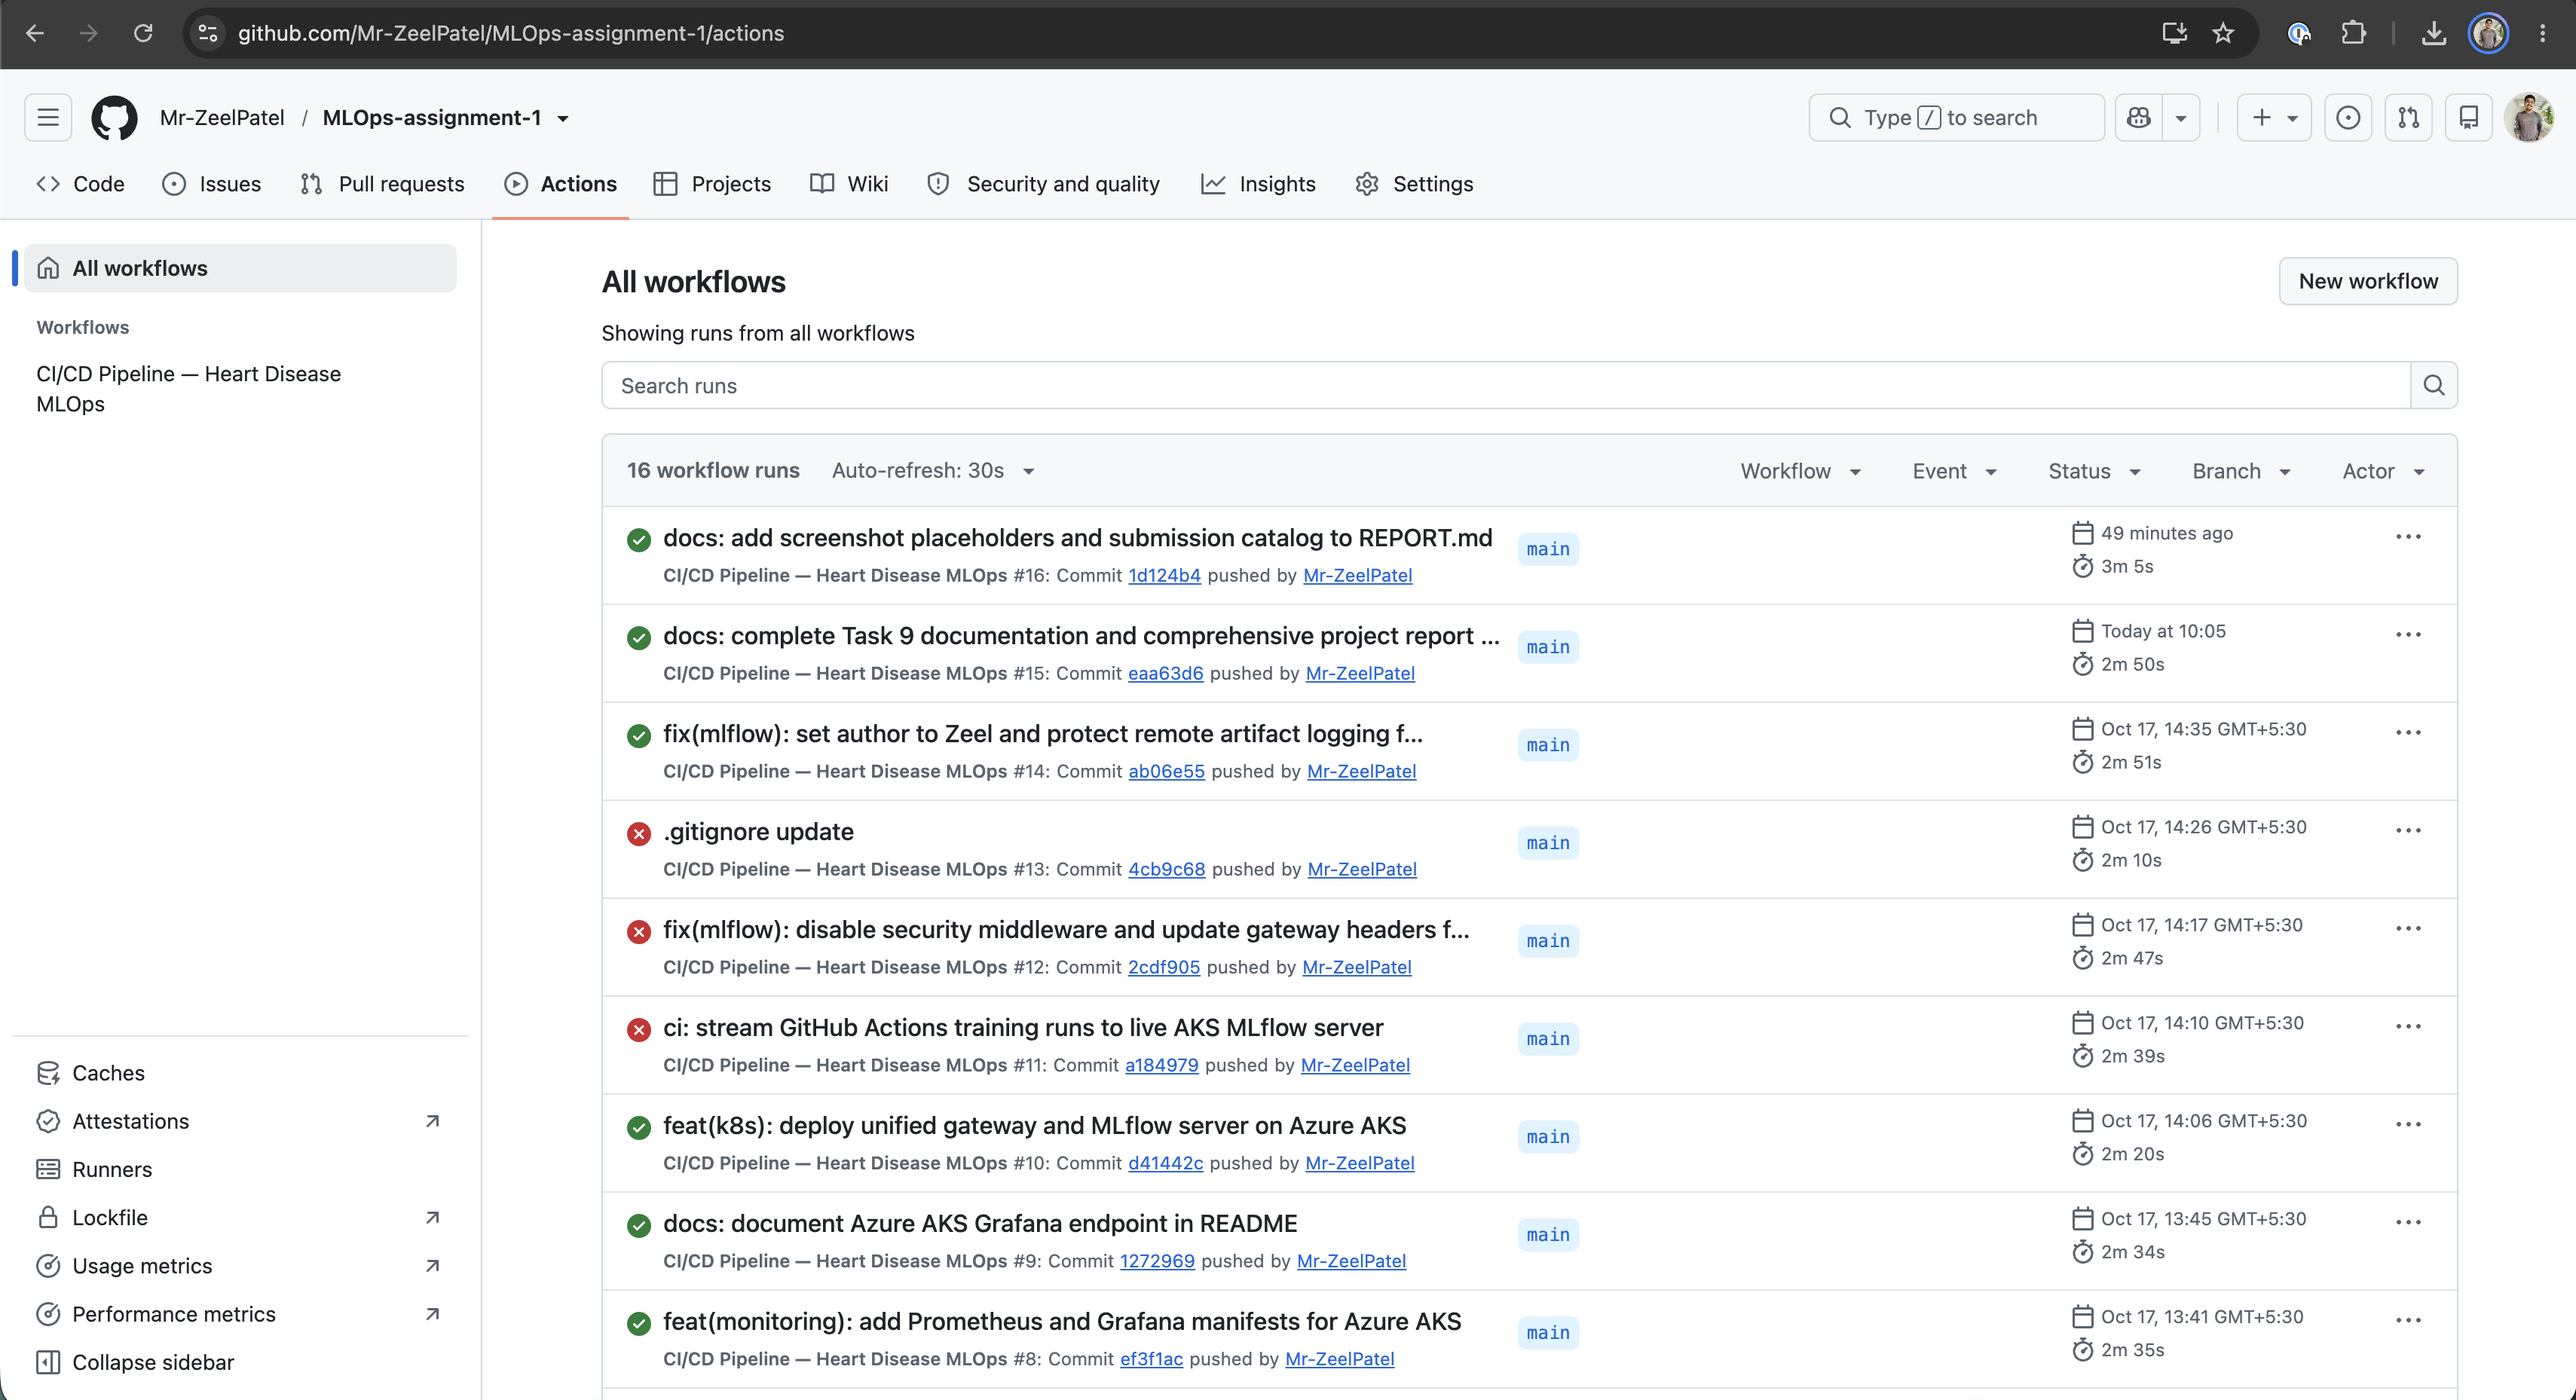
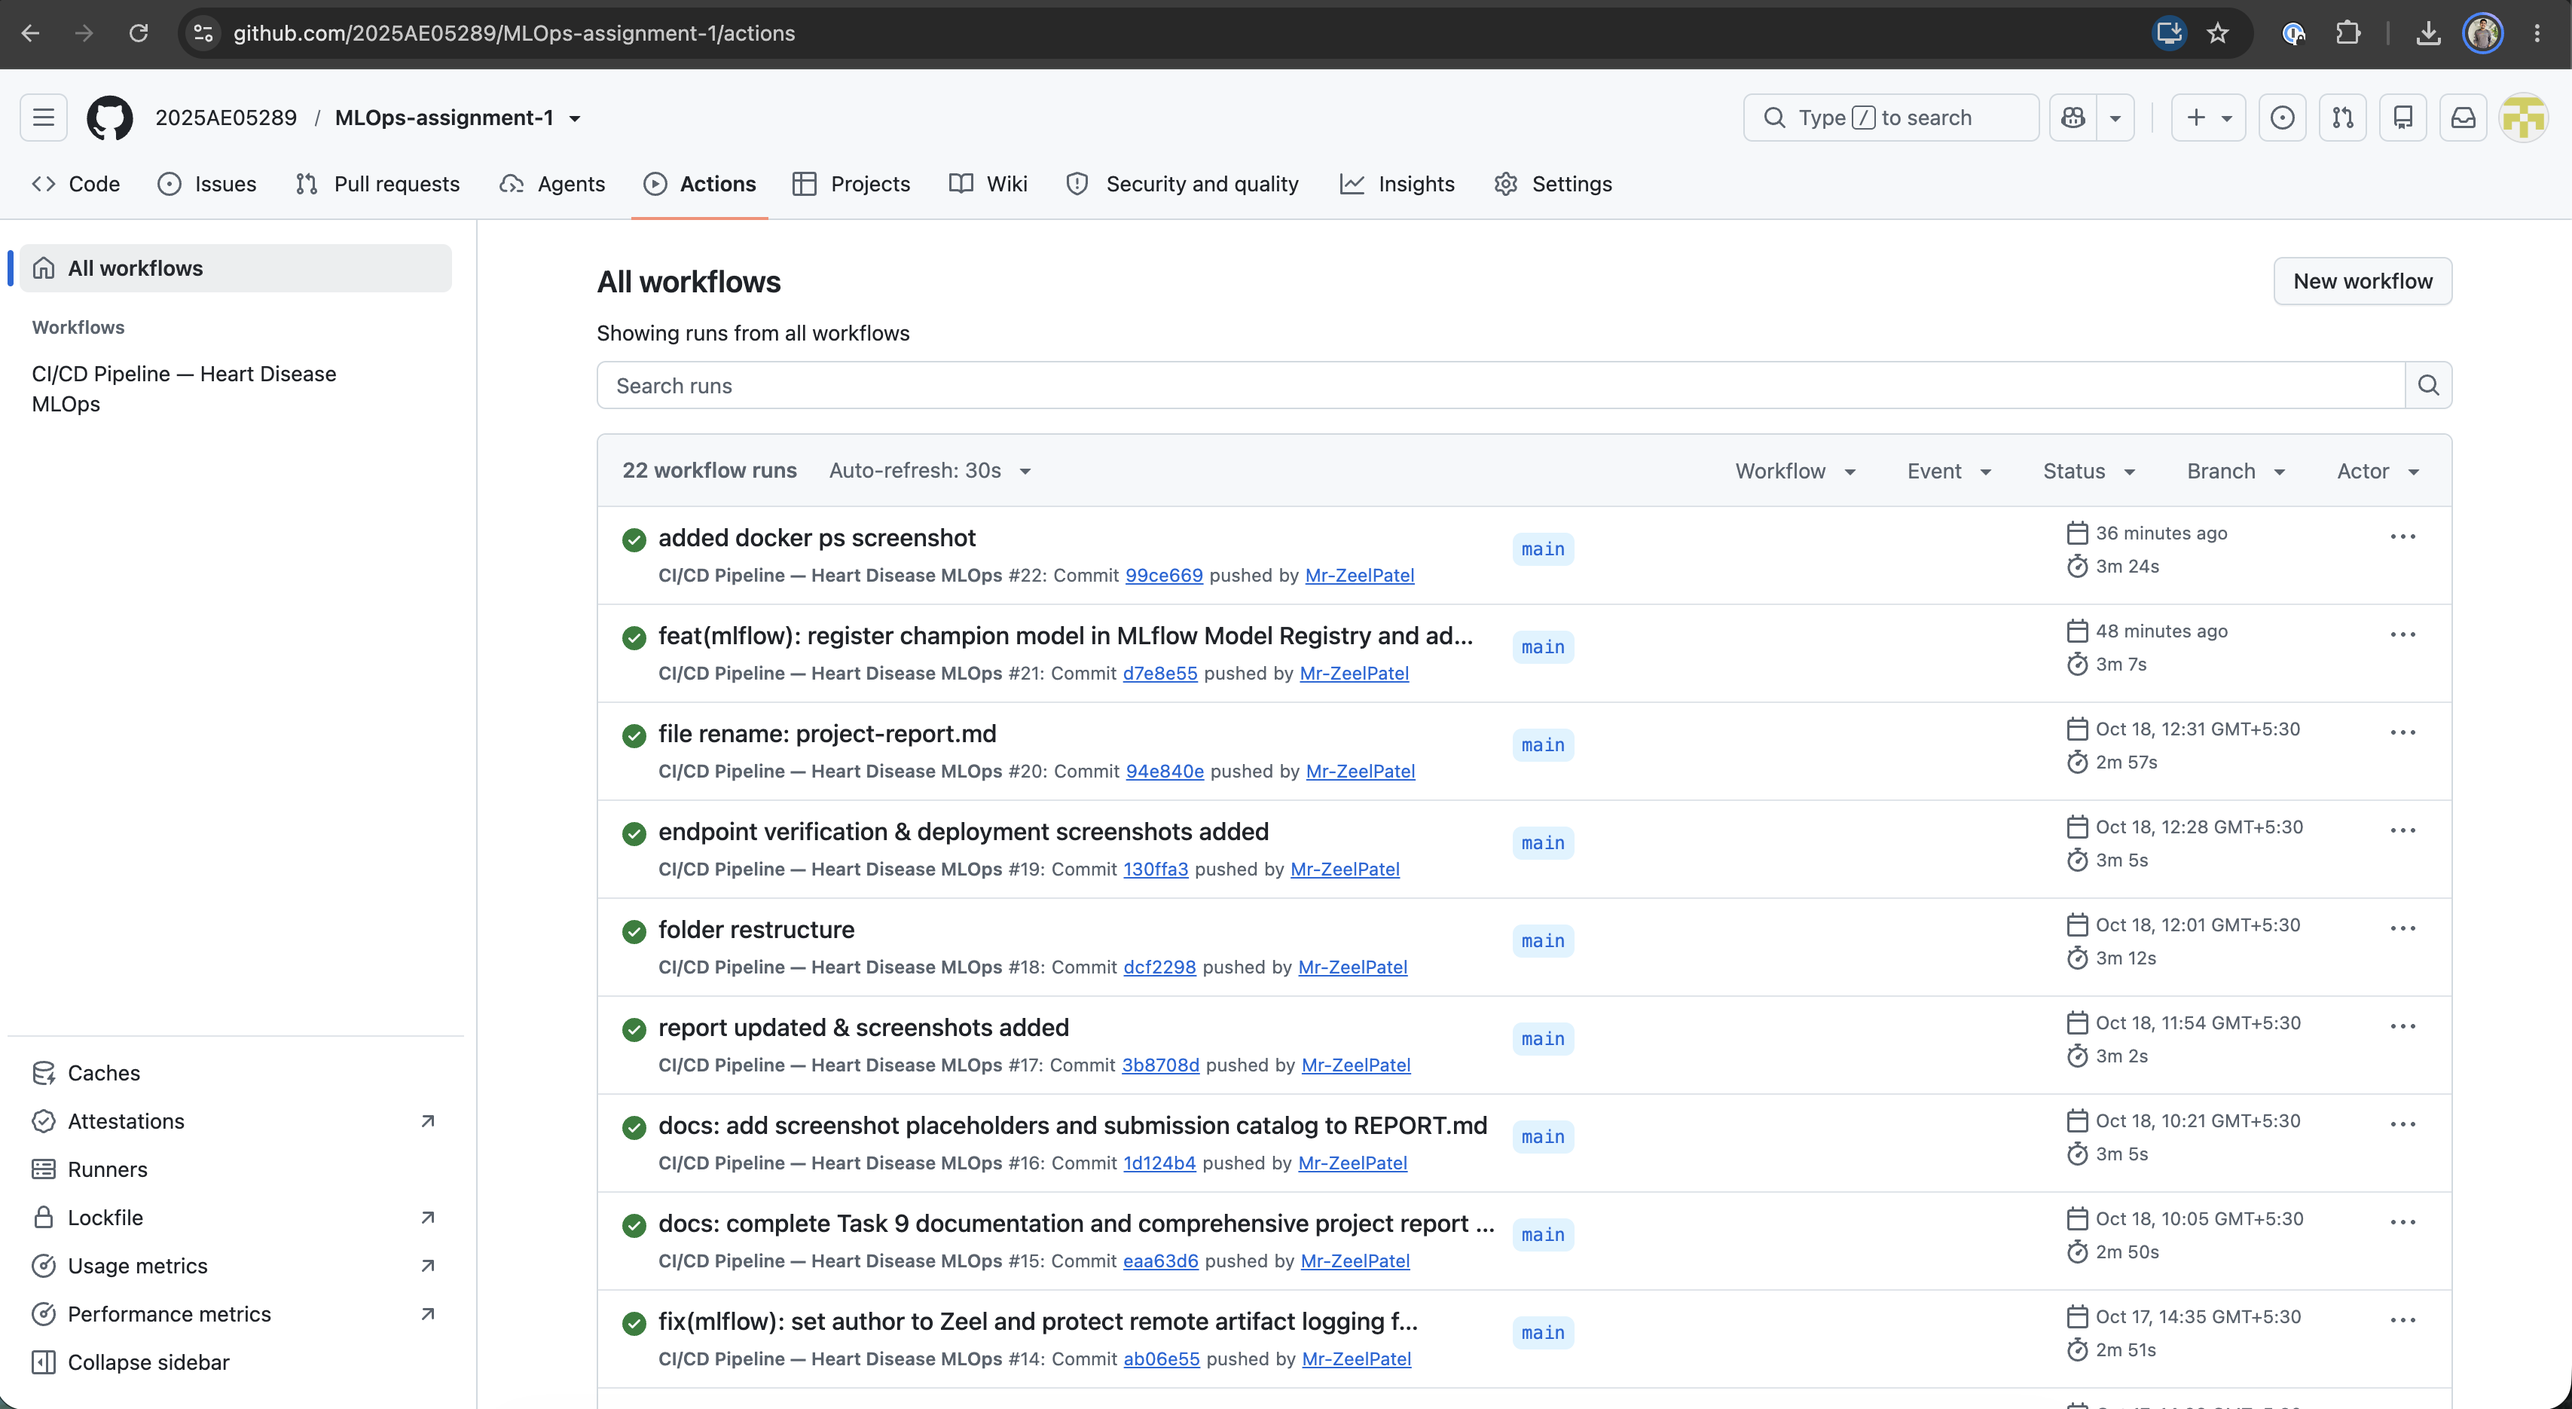
docs & feat: update repo attribution to 2025AE05289, log champion model signature and update screenshots

diff --git a/src/train.py b/src/train.py
@@ -46,8 +46,10 @@ from sklearn.metrics import (
     roc_curve,
 )
 
+import pandas as pd
 import mlflow
 import mlflow.sklearn
+from mlflow.models.signature import infer_signature
 
 warnings.filterwarnings("ignore")
 
@@ -289,6 +291,11 @@ def train_and_log_model(model, model_name, X_train, X_test, y_train, y_test,
         roc_path = plot_roc_curve(y_test, y_prob, model_name)
         imp_path = plot_feature_importance(model, feature_names, model_name)
 
+        # Infer signature and input example for MLflow Schema display
+        sample_df = pd.DataFrame(X_test[:5], columns=feature_names) if feature_names else pd.DataFrame(X_test[:5])
+        sample_preds = model.predict(X_test[:5])
+        signature = infer_signature(sample_df, sample_preds)
+
         # Log artifacts with MLflow (graceful for remote/CI environments)
         try:
             mlflow.log_artifact(report_path)
@@ -297,8 +304,10 @@ def train_and_log_model(model, model_name, X_train, X_test, y_train, y_test,
             if imp_path:
                 mlflow.log_artifact(imp_path)
             mlflow.sklearn.log_model(
-                model, artifact_path="model",
-                serialization_format="pickle",
+                sk_model=model,
+                artifact_path="model",
+                signature=signature,
+                input_example=sample_df.iloc[:2],
             )
         except Exception as e:
             print(f"  [INFO] Remote artifact upload notice: {e}")
@@ -501,12 +510,19 @@ def main():
         for metric, vals in best_result["cv_results"].items():
             mlflow.log_metric(f"champion_cv_{metric}_mean", vals["mean"])
 
+        # Infer signature and input example for Champion Model Schema
+        sample_df = pd.DataFrame(X_test[:5], columns=feature_names) if feature_names else pd.DataFrame(X_test[:5])
+        sample_preds = best_result["model"].predict(X_test[:5])
+        signature = infer_signature(sample_df, sample_preds)
+
         try:
             # Register in MLflow Model Registry
             mlflow.sklearn.log_model(
                 sk_model=best_result["model"],
                 artifact_path="model",
                 registered_model_name="heart-disease-champion",
+                signature=signature,
+                input_example=sample_df.iloc[:2],
             )
             mlflow.log_artifact(model_path)
             mlflow.log_artifact(pipeline_path)

diff --git a/project-report.md b/project-report.md
@@ -1,9 +1,9 @@
 # Project Report: End-to-End MLOps Solution for Heart Disease Classification
 
-**Author**: Zeel Patel  
-**Email**: zeeldpatel999@gmail.com  
+**Author**: Zeel Patel (ID: 2025AE05289)  
+**Email**: 2025ae05289@wilp.bits-pilani.ac.in / zeeldpatel999@gmail.com  
 **Course / Context**: MLOps Assignment 1  
-**Repository**: [https://github.com/Mr-ZeelPatel/MLOps-assignment-1](https://github.com/Mr-ZeelPatel/MLOps-assignment-1)  
+**Repository**: [https://github.com/2025AE05289/MLOps-assignment-1](https://github.com/2025AE05289/MLOps-assignment-1)  
 **Date**: October 2026  
 
 ---
@@ -148,6 +148,7 @@ All modeling iterations, parameters, evaluation metrics, and diagnostic figures 
 
 ![MLflow Tracking Server](screenshots/mlflow_tracking.png)
 ![MLflow Tracking Server and Runs](screenshots/mlflow_tracking_runs.png)
+![MLflow Model Registry - Champion Model with Schema](screenshots/mlflow-champion-model.png)
 
 
 ---
@@ -343,7 +344,7 @@ Live Grafana MLOps dashboard showing real-time metrics: Total Predictions Served
 ### 12.1 Local Execution
 ```bash
 # 1. Clone repository
-git clone https://github.com/Mr-ZeelPatel/MLOps-assignment-1.git
+git clone https://github.com/2025AE05289/MLOps-assignment-1.git
 cd MLOps-assignment-1
 
 # 2. Setup virtual environment & dependencies
@@ -374,9 +375,11 @@ kubectl get pods,svc,hpa -o wide
 
 ## 14. Code Repository & Submission Information
 
-- **Code Repository**: [https://github.com/Mr-ZeelPatel/MLOps-assignment-1](https://github.com/Mr-ZeelPatel/MLOps-assignment-1)
-- **Author**: Zeel Patel
-- **Email**: zeeldpatel999@gmail.com
+- **Code Repository**: [https://github.com/2025AE05289/MLOps-assignment-1](https://github.com/2025AE05289/MLOps-assignment-1)
+- **Author**: Zeel Patel (BITS Pilani ID: `2025AE05289`)
+- **Student Email**: `2025ae05289@wilp.bits-pilani.ac.in`
+- **Personal Email**: `zeeldpatel999@gmail.com`
+- **GitHub Username**: `2025AE05289`
 - **Public Cloud Gateway IP**: `http://4.224.167.2` (Azure AKS, Central India)
 - **FastAPI Documentation**: `http://4.224.167.2/docs`
 - **MLflow Tracking UI**: `http://4.224.167.2:5000`
